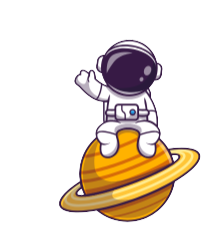
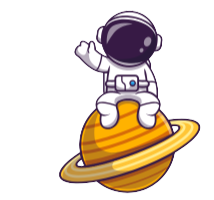
Continuando ajustando o - Sobre mim

Changed region(s): [[0.2804, 0.03, 0.9533, 0.99]]

diff --git a/Style.css b/Style.css
@@ -3,8 +3,15 @@
     margin: 0;
 }
 
-/* ------------------------------------------------------------------------------- */
 
+
+
+/* Cabeçalho -------------------------------------------------------------------------------------------------------------------------------------------------------------- Cabeçalho */
+
+
+
+
+/* Corpo do header */
 header {
 /* ------------------------------------------*/
     height: 8.5vh;
@@ -18,12 +25,14 @@ header {
 
 }
 
+/* Logo que fica no header */
 .Logo {
 /* ------------------------------------------*/
     height: 8.5vh;
 /* ------------------------------------------*/
 }
 
+/* Opções do header - "Sobre mim", "Projetos", "Certificações" */
 .Menu {
 /* ------------------------------------------*/
     width: 57.2vw;
@@ -35,30 +44,13 @@ header {
 /* ------------------------------------------*/
 }
 
-.titulo {
-    width: 19vw;
-    height: 5vh;
-/* ------------------------------------------*/
-    display: flex;
-    justify-content: center;
-    align-items: center;
-/* ------------------------------------------*/
-    color: white;
-    font-family: "Inter", serif;
-    font-optical-sizing: auto;
-    font-weight: 350;
-    font-style: normal;
-    font-size: 4vh;
-/* ------------------------------------------*/
-    border-left: 0.4vh solid white ;
-    cursor: pointer;
-}
 
+/* Configurando os textos do header */
 .titulo {
 /* ------------------------------------------*/
     width: 19vw;
 /* ------------------------------------------*/
-    min-height: 6vh; /* aumentei um pouco para acomodar o span */
+    min-height: 6vh;
     display: flex;
     flex-direction: column;
     justify-content: center;
@@ -76,30 +68,32 @@ header {
     position: relative;
 /* ------------------------------------------*/
 }
-    
+
+/* Configurando a linha debaixo para o detalhe no header */
 .linha {
 /* ------------------------------------------*/
     display: block;
-    width: 30%; /* controle da largura da linha */
+    width: 30%;
     height: 0.3vh;
     margin-top: 0.3vh;
     background-color: transparent;
     transition: background-color 0.3s ease;
 /* ------------------------------------------*/
 }
-    
+
+/* Para que fique o detalhe debaixo da opção */
 .titulo:hover .linha {
 /* ------------------------------------------*/
     background-color: white;
 /* ------------------------------------------*/
 }
 
-
+/* Para não aparecer do lado do "Sobre mim" */
 #none {
     border-left: none;
 } 
 
-
+/* Botão de contato */
 .botao_titulo {
     height: 5vh;
 /* ------------------------------------------*/
@@ -123,7 +117,7 @@ header {
     cursor: pointer;
 }
 
-
+/* Botão de contato - Branquinho*/
 .botao_titulo:hover {
 /* ------------------------------------------*/
     background-color: rgba(255, 255, 255, 0.877);
@@ -132,17 +126,24 @@ header {
     transition: all 0.3s ease;
 }
 
-/* ------------------------------------------------------------------------------- */
 
+
+/* SOBRE MIM -------------------------------------------------------------------------------------------------------------------------------------------------------------- SOBRE MIM */
+
+
+
+
+/* Imagem do astronauta dando tchau */
 .astronauta_1 img{
 /* ------------------------------------------*/
-    width: 12vw;
+    width: 8vw;
 /* ------------------------------------------*/
-    margin-left: 6vw;
-    margin-top: 1vh;
+    margin-left: 10vw;
+    margin-top: 7vh;
     float: left;
 }
 
+/* HEllo World - imagem */
 .hello_world img{
 /* ------------------------------------------*/
     width: 30vw;
@@ -150,16 +151,20 @@ header {
     margin-top: 7vh;
 }
 
+/* HEllo World - div */
 .hello_world {
+/* ------------------------------------------*/
     z-index: 1;
 }
 
+/* Meu Nome - ajustando a div*/
 .nome {
 /* ------------------------------------------*/
     clear: both;
     z-index: 0;
 }
 
+/* Meu Nome - imagem*/
 .nome img {
 /* ------------------------------------------*/
     width: 50vw;
@@ -167,3 +172,64 @@ header {
     margin-left: 8vw;
     margin-top: 0.5vh;
 }
+
+/* Título "Desenvolvedor de Sistema Web" */
+.desenvolvedor{
+/* ------------------------------------------*/
+    margin-left: 19vw;
+    margin-top: 1vh;
+/* ------------------------------------------*/
+    color: #999999;
+    font-family: "Kavoon", serif;
+    font-weight: 400;
+    font-style: normal;
+    font-size: 3.5vh;
+}
+
+/* Textão falando sobre mim */
+.texto_sobre_mim{
+/* ------------------------------------------*/
+    width: 45vw;
+/* ------------------------------------------*/
+    margin-top: 2vh;
+    margin-left: 10vw;
+/* ------------------------------------------*/
+    color: white;
+    font-size: 2.5vh;
+    font-family: "K2D", sans-serif;
+    font-weight: 200;
+    font-style: normal;
+    text-align: center;
+}
+
+/* Botão(Curriculo)*/
+.botao_curriculo {
+/* ------------------------------------------*/
+    width: 9vw;
+    height: 7vh;
+/* ------------------------------------------*/
+    margin-top: 3vh;
+    margin-left: 27vw;
+/* ------------------------------------------*/
+    background-image: url("/img/Botão_Curriculo.png");
+    background-size: contain;
+    background-repeat: no-repeat;
+    background-position: center;
+}
+
+/* Botão(Curriculo) - Versão Branca */
+.botao_curriculo:hover{
+/* ------------------------------------------*/
+    width: 9vw;
+    height: 7vh;
+/* ------------------------------------------*/
+    background-image: url('/img/Botão_Curriculo_Branco.png');
+    cursor: pointer;
+}
+
+
+
+/* SOBRE MIM -------------------------------------------------------------------------------------------------------------------------------------------------------------- SOBRE MIM */
+
+
+

diff --git a/Index.html b/Index.html
@@ -27,10 +27,11 @@
             <div class="astronauta_1"><img src="/img/Astronauta(Tchau).png" alt=""></div>
             <div class="hello_world"><img src="/img/Hello_World.png" alt=""></div>
             <div class="nome"><img src="/img/Nome.png" alt=""></div>
-
-
-
+            <div class="desenvolvedor">Desenvolvedor de Sistemas Web</div>
+            <div class="texto_sobre_mim">Sou formado em Análise e Desenvolvimento de Sistemas pela Escola SENAI “Morvan Figueiredo” e apaixonado por programação. Movido por desafios e curiosidade, busco aprendizado constante para criar soluções inteligentes. Valorizo o trabalho em equipe como fonte de inspiração mútua e foco no desenvolvimento de habilidades técnicas e interpessoais para construir uma carreira sólida e contribuir com projetos impactantes na tecnologia.</div>
+            <div class="botao_curriculo"></div>
     </div>
+    <img src="/img/Detalhe_Divisão.png" alt="">
 
 
 
@@ -43,6 +44,15 @@
 <link rel="preconnect" href="https://fonts.gstatic.com" crossorigin>
 <link href="https://fonts.googleapis.com/css2?family=Inter:ital,opsz,wght@0,14..32,100..900;1,14..32,100..900&display=swap" rel="stylesheet">
 
+<!-- Kavoon -->
+<link rel="preconnect" href="https://fonts.googleapis.com">
+<link rel="preconnect" href="https://fonts.gstatic.com" crossorigin>
+<link href="https://fonts.googleapis.com/css2?family=Kavoon&display=swap" rel="stylesheet">
+
+
+<link rel="preconnect" href="https://fonts.googleapis.com">
+<link rel="preconnect" href="https://fonts.gstatic.com" crossorigin>
+<link href="https://fonts.googleapis.com/css2?family=K2D:ital,wght@0,100;0,200;0,300;0,400;0,500;0,600;0,700;0,800;1,100;1,200;1,300;1,400;1,500;1,600;1,700;1,800&family=Kavoon&display=swap" rel="stylesheet">
 <!-- ------------------------------------------------------------------------------------------------------------------------------------------------>
 
 </html>
